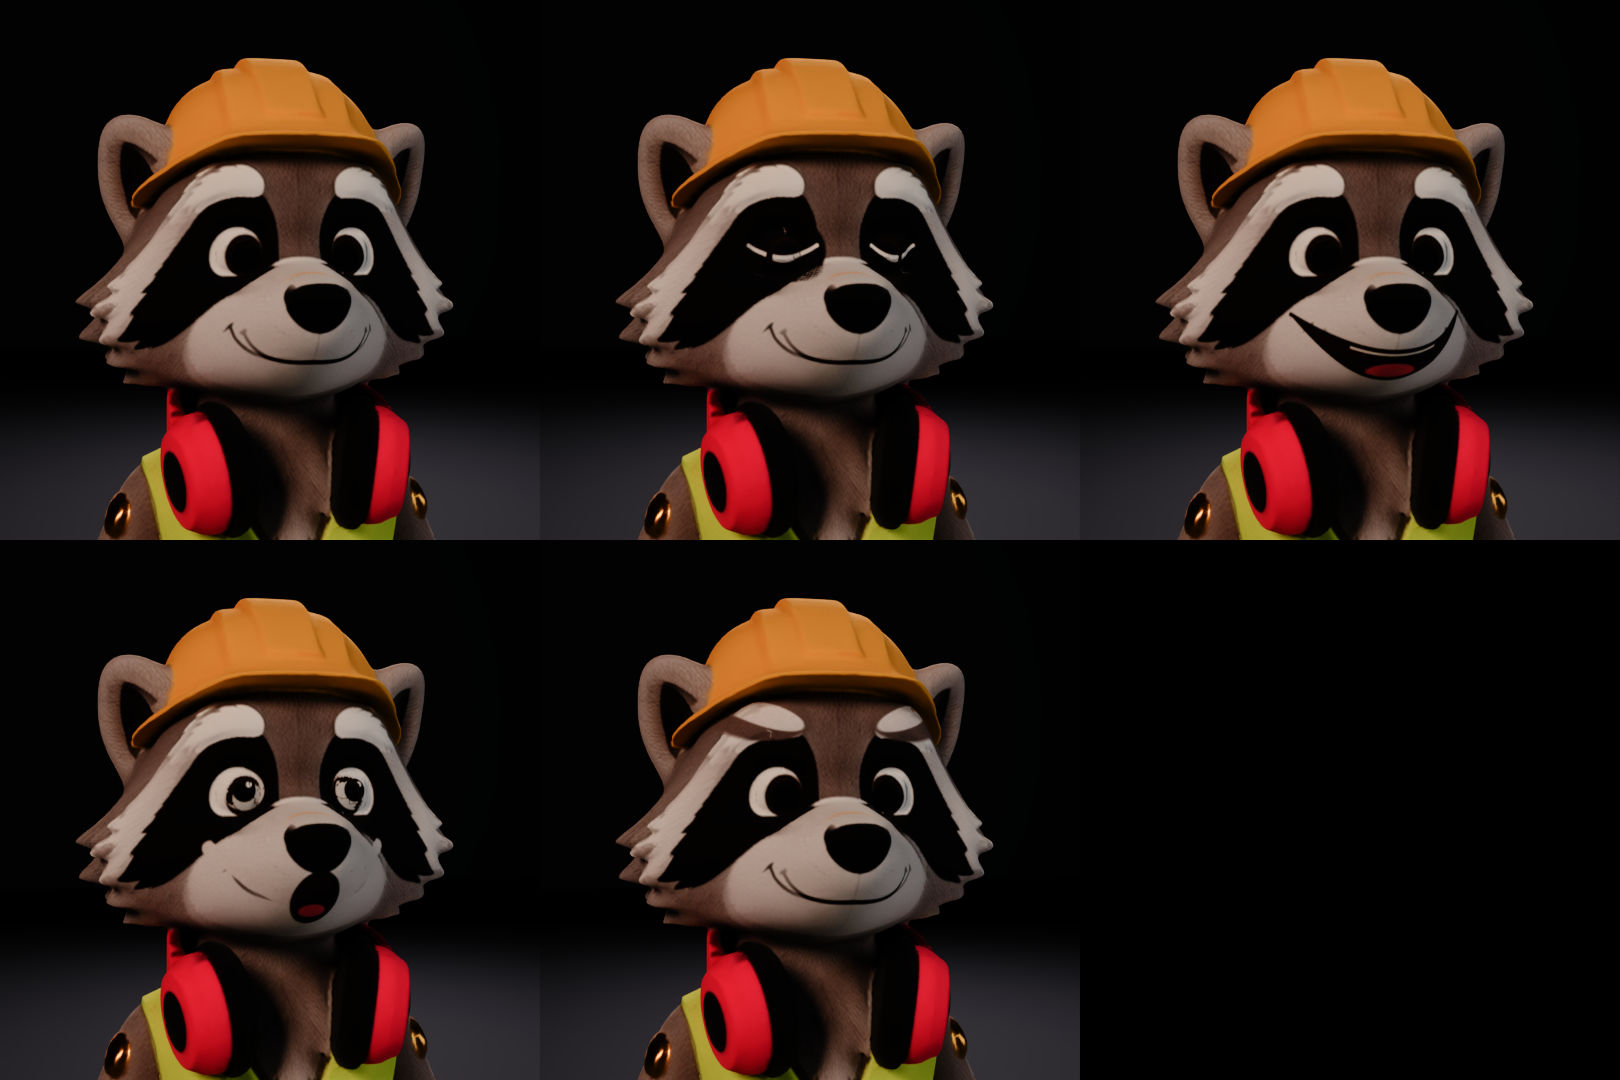
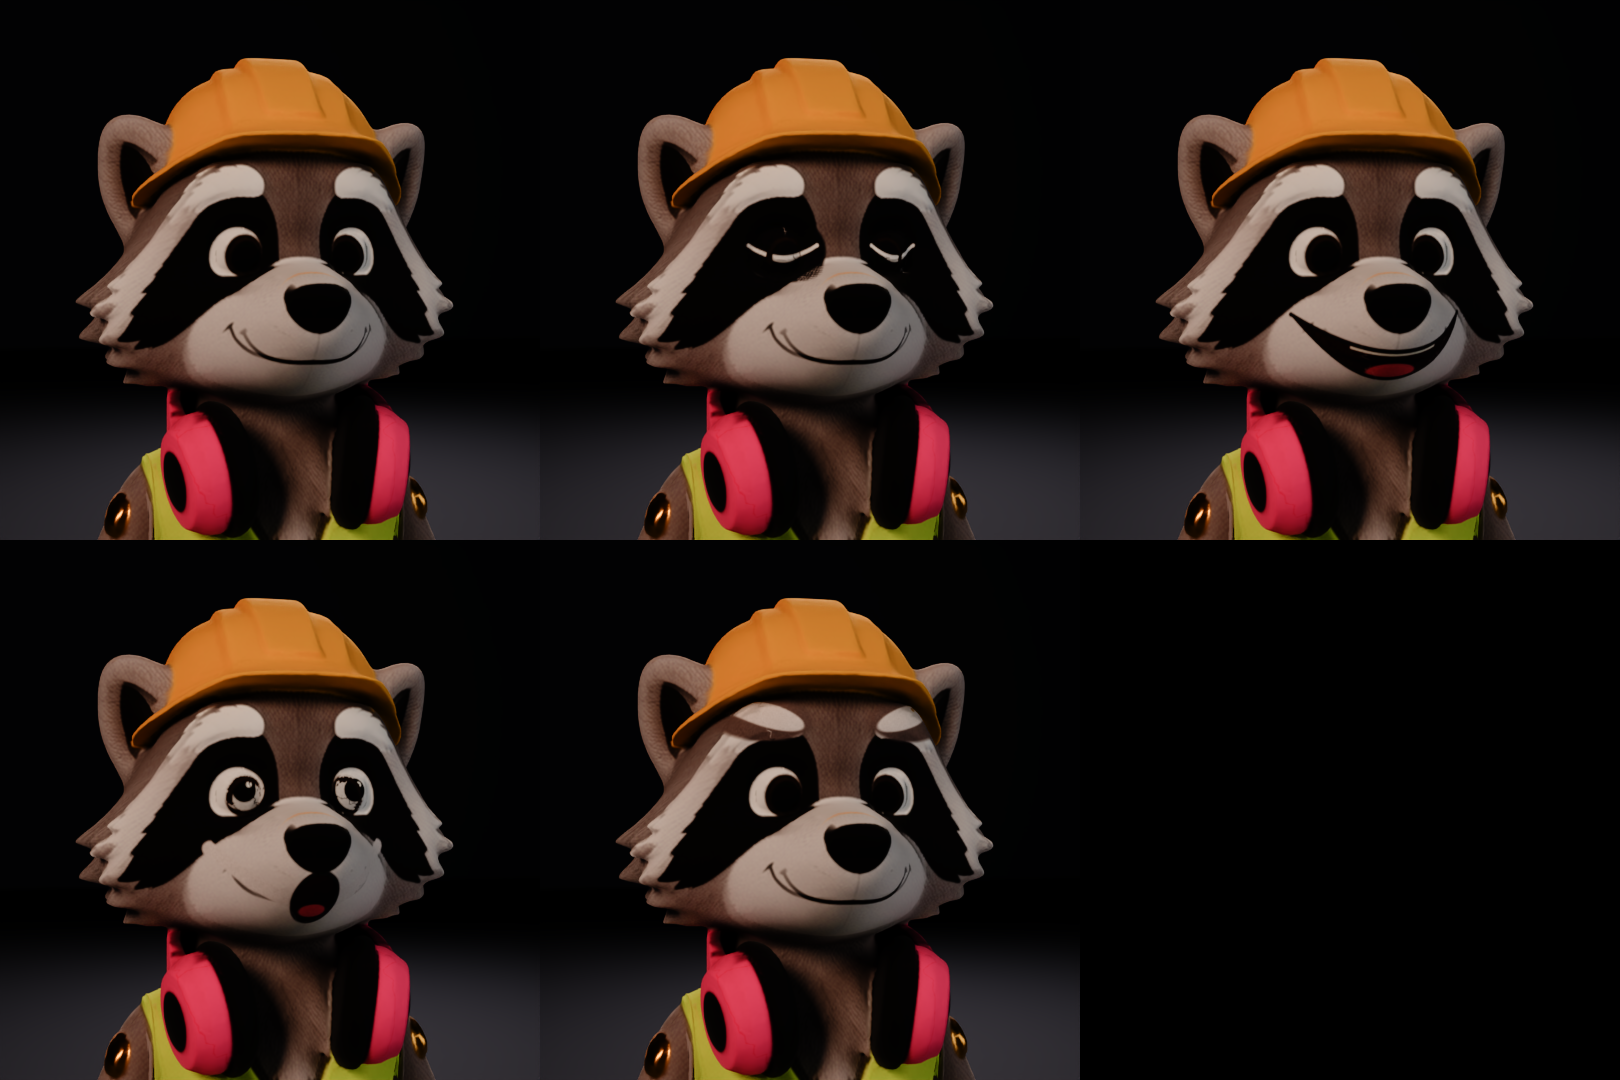
Pickles polish: stitched armhole panels, headphones remapped to brief pink
Claude-Session: https://claude.ai/code/session_01BntmWCku4jb1pF4QRZCMzN

diff --git a/scripts/builders/_rigkit_pickles.py b/scripts/builders/_rigkit_pickles.py
@@ -448,11 +448,12 @@ def skin(ob, arm, coll, co, col):
     W[phones, J_["neck"]] = 1
 
     W = limit_normalize(fallback(np.clip(W, 0, None)), 4)
-    W, co, col = rip_arms(ob, names, W, co, col, J_, arm_cols, handzone)
+    W, co, col, is_arm, caps = rip_arms(ob, names, W, co, col, J_, arm_cols, handzone)
     W = limit_normalize(W, 4)
     write_weights(ob, names, W)
     ob["rigid_parts"] = "hat->head, headphones->neck, vest->spine (smoothed), tail->tail chain"
-    return W, names, dict(hat=hat, phones=phones, vest=vest, tail=tail), co, col
+    return W, names, dict(hat=hat, phones=phones, vest=vest, tail=tail, is_arm=is_arm,
+                          caps=caps), co, col
 
 
 def weight_debug_colours(ob, W, names):
@@ -729,6 +730,21 @@ def paint_faces(ob, co, col, base_img_path, out_dir, names):
     if lime_t.any() and dark_t.any():
         mitten = np.median(hcol[dark_t], 0)
         base[hr[lime_t], hc[lime_t]] = mitten + rng.normal(0, 0.01, (int(lime_t.sum()), 1))
+    # headphones: the sculpt's magenta (s ~0.9) renders red; remap to the brief's #E84A8C
+    # keeping each texel's shading. Black cushions are untouched (value/saturation gate).
+    ph = (z > 0.76) & (z < 1.0) & (np.abs(x) < 0.2)
+    pr, pc, _ = texel_positions(ob, co, ph, (W, H))
+    pcol = base[pr, pc]
+    ph_h, ph_s, ph_v = _hsv(pcol)
+    pinkt = ((ph_h > 295) | (ph_h < 12)) & (ph_s > 0.3) & (ph_v > 0.2)
+    if pinkt.any():
+        tgt = np.array([0xE8, 0x4A, 0x8C]) / 255.0
+        _, ts, tv = _hsv(tgt[None])
+        ref_v = np.median(ph_v[pinkt & (ph_s > 0.6)]) if (pinkt & (ph_s > 0.6)).any() else tv[0]
+        wgt = np.clip((ph_s[pinkt] - 0.3) / 0.3, 0, 1)[:, None]     # soft at cushion edges
+        shade = np.clip(ph_v[pinkt] / ref_v, 0, 1.25)[:, None]
+        new = np.clip(tgt * shade, 0, 1)
+        base[pr[pinkt], pc[pinkt]] = pcol[pinkt] * (1 - wgt) + new * wgt
     paths = []
     for i, n in enumerate(names):
         img = base.copy()
@@ -886,7 +902,7 @@ def _components(n, edges):
             return lab
 
 
-def _fan_caps(bm, uv_layer, uv=None, inset=0.12, relax=12):
+def _fan_caps(bm, uv_layer, uv=None, inset=0.12, relax=12, uv_lime=None, uv_fur=None):
     """Close every boundary loop: a relaxed inner ring on the rim's best-fit plane (so the jagged
     fur rim does not streak the shading), a fan to the centre. Each cap takes the UV of the rim
     vertex whose texture colour is the rim median (lime on the vest side, fur on the arm)."""
@@ -940,6 +956,7 @@ def _fan_caps(bm, uv_layer, uv=None, inset=0.12, relax=12):
                 a_, b_ = np.array(lp.vert.co[:]), np.array(lp.link_loop_next.vert.co[:])
                 fn += np.cross(a_ - b_, c - b_)
             outward = fn[0] * np.sign(c[0]) > 0
+            info = dict(c=c, n=fn / max(np.linalg.norm(fn), 1e-12), rim=P_, outward=bool(outward))
             cls = lime if (outward and lime.mean() > 0.15) else fur
             if not cls.any():
                 cls = np.ones(len(rim), bool)
@@ -947,11 +964,16 @@ def _fan_caps(bm, uv_layer, uv=None, inset=0.12, relax=12):
             dist = np.linalg.norm(cols - med, axis=1) + (~cls) * 10
             k = int(np.argmin(dist))
             luv = rim[k].link_loops[0][uv_layer].uv.copy() if rim[k].link_loops else uv
+            if cls is lime and uv_lime is not None:
+                luv = uv_lime
+            elif cls is fur and uv_fur is not None:
+                luv = uv_fur
             ccol = rim[k][colr]
             for v in ring + [cv]:
                 v[colr] = ccol
         else:
             luv = uv
+            info = dict(c=c, n=n, rim=P_, outward=True)
         for e in group:
             lp = e.link_loops[0]
             a, b = lp.vert, lp.link_loop_next.vert
@@ -967,7 +989,7 @@ def _fan_caps(bm, uv_layer, uv=None, inset=0.12, relax=12):
                     l[uv_layer].uv = luv
         bm.verts.index_update()
         caps.append((cv.index, [v.index for v in rim],
-                     [(r.index, v.index) for r, v in zip(ring, rim)]))
+                     [(r.index, v.index) for r, v in zip(ring, rim)], info))
     return caps
 
 
@@ -1004,7 +1026,12 @@ def rip_arms(ob, names, W, co, col, J_, arm_cols, handzone):
     bm.verts.ensure_lookup_table()
     n1 = len(bm.verts)
     # new verts are copies of originals: remember where they came from (same position)
-    caps = _fan_caps(bm, uv_layer, grey_uv)
+    mm = classify(co, col)
+    piece_ = np.zeros(len(co), bool)
+    piece_[:len(piece)] = piece
+    uv_lime = _panel_uv(ob, co, col, (0.08, -0.2, 0.7), mm["lime"] & ~piece_)
+    uv_fur = _panel_uv(ob, co, col, (0.21, 0.0, 0.72), mm["grey"] & piece_)
+    caps = _fan_caps(bm, uv_layer, grey_uv, uv_lime=uv_lime, uv_fur=uv_fur)
     bm.normal_update()
     open_edges = sum(1 for e in bm.edges if e.is_boundary)
     bm.to_mesh(me)
@@ -1040,7 +1067,7 @@ def rip_arms(ob, names, W, co, col, J_, arm_cols, handzone):
     others = [j for j in range(W.shape[1]) if j not in arm_cols]
     W2[np.ix_(is_arm, others)] = 0
     W2[np.ix_(~is_arm, arm_cols)] = 0
-    for ci, members, ring in caps:     # cap verts: rim weights (same piece)
+    for ci, members, ring, _ in caps:  # cap verts: rim weights (same piece)
         for ri, vi in ring:
             W2[ri] = W2[vi]
         W2[ci] = W2[members].mean(0)
@@ -1052,4 +1079,158 @@ def rip_arms(ob, names, W, co, col, J_, arm_cols, handzone):
     ob["arm_rip"] = ("arms cut free along the fused torso seam: %d edges, %d cap loops, "
                      "%d open edges left" % (int(cut.sum()), len(caps), open_edges))
     print("[pickles]", ob["arm_rip"])
-    return W2, co2, col2
+    return W2, co2, col2, is_arm, [c[3] for c in caps]
+
+
+# --------------------------------------------------------------------------- armhole panels
+
+def _smooth_outline(q, bins=72, keep=5, pct=80):
+    """Star-shaped, low-pass outline (bins x 2) of 2D points around their origin."""
+    ang = np.arctan2(q[:, 1], q[:, 0])
+    rad = np.hypot(q[:, 0], q[:, 1])
+    idx = ((ang + np.pi) / (2 * np.pi) * bins).astype(int) % bins
+    r = np.full(bins, np.nan)
+    for b in range(bins):
+        m = idx == b
+        if m.any():
+            r[b] = np.percentile(rad[m], pct)
+    ok = ~np.isnan(r)
+    xs = np.arange(bins)
+    r = np.interp(xs, xs[ok], r[ok], period=bins)
+    F = np.fft.rfft(r)
+    F[keep + 1:] = 0
+    r = np.fft.irfft(F, bins)
+    th = (xs + 0.5) / bins * 2 * np.pi - np.pi
+    return np.stack([np.cos(th) * r, np.sin(th) * r], 1)
+
+
+def _panel_uv(ob, co, col, target, cls):
+    """UV of the vertex of class `cls` nearest `target` (a clean spot of the texture)."""
+    cand = np.nonzero(cls)[0]
+    i = int(cand[np.argmin(np.linalg.norm(co[cand] - np.asarray(target), axis=1))])
+    me = ob.data
+    lv = np.empty(len(me.loops), dtype=np.int64)
+    me.loops.foreach_get("vertex_index", lv)
+    li = int(np.nonzero(lv == i)[0][0])
+    return tuple(me.uv_layers.active.data[li].uv)
+
+
+def _mesh_from_curve(cu_ob, name, coll):
+    dg = bpy.context.evaluated_depsgraph_get()
+    me = bpy.data.meshes.new_from_object(cu_ob.evaluated_get(dg))
+    me.name = name
+    bpy.data.objects.remove(cu_ob, do_unlink=True)
+    ob = bpy.data.objects.new(name, me)
+    coll.objects.link(ob)
+    return ob
+
+
+def cap_panels(coll, arm, body, co, col, W, names, is_arm, caps):
+    """Tidy felt panels over the arm-cut caps: a bevelled hi-vis armhole panel with a dark
+    stitched seam on the vest side, a rounded fur joint panel on the arm's inner face. At rest
+    each panel sits inside the other piece; they only show when the arm lifts."""
+    from mathutils import Matrix as M3, Vector as V
+    from mathutils.kdtree import KDTree
+    from lib import mats
+    m = classify(co, col)
+    uv_lime = _panel_uv(body, co, col, (0.08, -0.2, 0.7), m["lime"] & ~is_arm)
+    uv_fur = _panel_uv(body, co, col, (0.21, 0.0, 0.72), m["grey"] & is_arm)
+    mat = body.data.materials[0]
+    seam_mat = mats.felt(P + "seam_felt", "mask", fiber=140)
+    kds = {}
+    for key, mask in (("arm", is_arm), ("body", ~is_arm)):
+        ids = np.nonzero(mask)[0]
+        kd = KDTree(len(ids))
+        for i in ids:
+            kd.insert(co[i], int(i))
+        kd.balance()
+        kds[key] = kd
+    from mathutils.bvhtree import BVHTree
+    me = body.data
+    polys = [tuple(pp.vertices) for pp in me.polygons]
+    bvh = {}
+    for key, mask in (("arm", is_arm), ("body", ~is_arm)):
+        sel = [pp for pp in polys if mask[pp[0]]]
+        bvh[key] = BVHTree.FromPolygons([tuple(v) for v in co], sel)
+
+    def conform(obj, tree, c, n, u, v, outline):
+        """Wrap the panel's outer margin onto the piece's surface (keeping each vertex's
+        height); the middle stays flat over the cap."""
+        th_o = np.arctan2(outline[:, 1], outline[:, 0])
+        r_o = np.hypot(outline[:, 0], outline[:, 1])
+        order = np.argsort(th_o)
+        th_o, r_o = th_o[order], r_o[order]
+        for vv in obj.data.vertices:
+            p = np.array(vv.co[:])
+            hgt = (p - c) @ n
+            qx, qy = (p - c) @ u, (p - c) @ v
+            frac = np.hypot(qx, qy) / np.interp(np.arctan2(qy, qx), th_o, r_o, period=2 * np.pi)
+            w = float(np.clip((frac - 0.75) / 0.25, 0, 1))
+            if w <= 0:
+                continue
+            hit, nrm, _, _ = tree.find_nearest(V(p - n * hgt))
+            if hit is None:
+                continue
+            nrm = np.array(nrm[:])
+            if nrm @ n < 0:
+                nrm = -nrm
+            nn = (nrm + n) / np.linalg.norm(nrm + n)     # half-way normal: no folding
+            tgt = np.array(hit[:]) + nn * hgt
+            vv.co = V(p * (1 - w) + tgt * w)
+
+    made = []
+    for info in caps:
+        P_ = info["rim"]
+        if len(P_) < 80:
+            continue
+        c, n = np.asarray(info["c"]), np.asarray(info["n"])
+        vest = info["outward"]
+        side = "L" if c[0] > 0 else "R"
+        u = np.linalg.svd(P_ - c)[2][0]
+        u = u - n * (u @ n)
+        u /= np.linalg.norm(u)
+        v = np.cross(n, u)
+        q = np.stack([(P_ - c) @ u, (P_ - c) @ v], 1)
+        outline = (_smooth_outline(q, keep=6, pct=100) * 1.04 if vest
+                   else _smooth_outline(q, pct=80) * 0.97)
+        depth, proud = 0.009, (0.0025 if vest else 0.002)
+        name = P + (f"armhole.{side}" if vest else f"arm_disc.{side}")
+        pan = geo.extrude_poly(name, [tuple(p) for p in outline], depth, coll=coll)
+        geo.add_bevel(pan, 0.0035, 3)
+        for md in list(pan.modifiers):
+            geo._apply_modifier(pan, md)
+        pan.data.materials.clear()
+        pan.data.materials.append(mat)
+        uvl = pan.data.uv_layers.new(name="UVMap")
+        uvp = uv_lime if vest else uv_fur
+        for d in uvl.data:
+            d.uv = uvp
+        base = V(c + n * (proud - depth))
+        R = M3((tuple(u), tuple(v), tuple(n))).transposed()
+        pan.data.transform(M3.Translation(base) @ R.to_4x4())
+        conform(pan, bvh["body" if vest else "arm"], c, n, u, v, outline)
+        pan.data.shade_smooth()
+        parts = [pan]
+        if vest:
+            ring = outline * 0.86
+            pts = [tuple(c + n * (proud + 0.0006) + p[0] * u + p[1] * v) for p in ring]
+            pts.append(pts[0])
+            tb = geo.tube(name + "_seam", pts, 0.0011, mat=seam_mat, coll=coll, res=2)
+            seam = _mesh_from_curve(tb, name + "_seam", coll)
+            conform(seam, bvh["body"], c, n, u, v, outline)
+            seam.data.uv_layers.new(name="UVMap")
+            parts.append(seam)
+            pan = geo.join(parts, name)
+        # weights from the same piece only (the two pieces coincide at rest)
+        kd = kds["body" if vest else "arm"]
+        pc = np.array([vv.co[:] for vv in pan.data.vertices])
+        Wp = np.zeros((len(pc), len(names)), np.float32)
+        for k, p in enumerate(pc):
+            hits = kd.find_n(p, 6)
+            Wp[k] = np.mean([W[i] for _, i, _ in hits], 0)
+        write_weights(pan, names, limit_normalize(Wp, 4))
+        pan.parent = arm
+        md = pan.modifiers.new("Armature", "ARMATURE")
+        md.object = arm
+        made.append(pan)
+    return made

diff --git a/scripts/builders/pickles.py b/scripts/builders/pickles.py
@@ -47,12 +47,13 @@ def build(coll):
     co, off = K.recentre(body, col)
     arm = K.build_armature(coll)
     geo.parent(arm, root)
-    _, _, _, co, col = K.skin(body, arm, coll, co, col)
+    W, names, masks, co, col = K.skin(body, arm, coll, co, col)
     body.parent = arm
     body.parent_type = "OBJECT"
     md = body.modifiers.new("Armature", "ARMATURE")
     md.object = arm
     md.use_deform_preserve_volume = True
+    K.cap_panels(coll, arm, body, co, col, W, names, masks["is_arm"], masks["caps"])
     src_png = os.path.join(SRC, "pickles_meshy.png")
     K.brass_pins(body, co, col, src_png, os.path.join(FACE_DIR, "pickles_pinmask.png"))
     K.face_rig(root, body, co, col, FACE_DIR, FACES, src_png)
